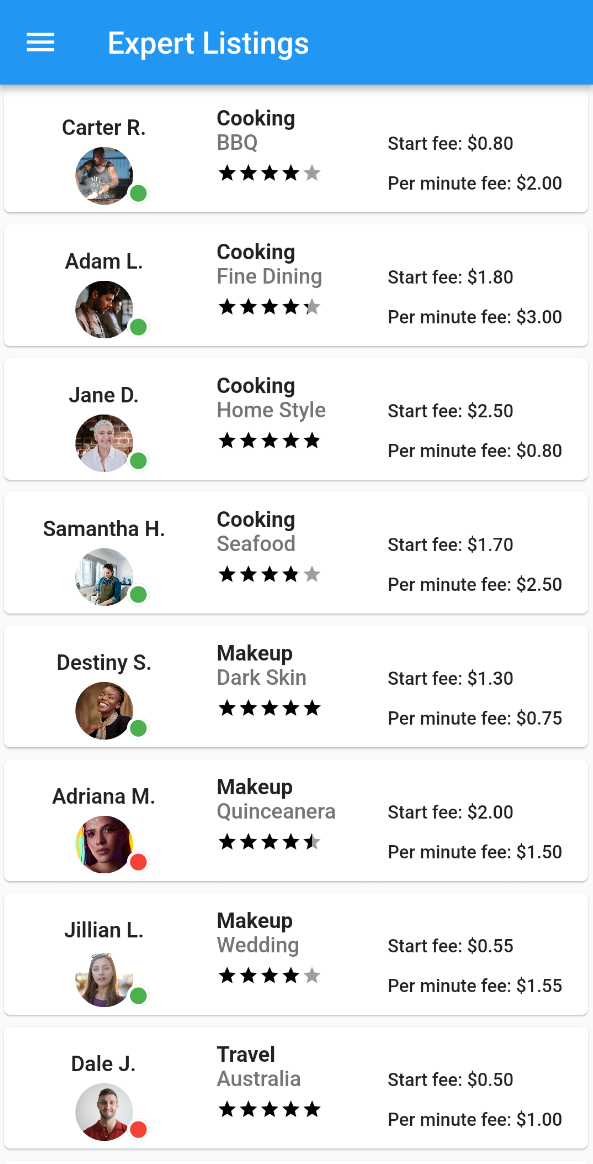
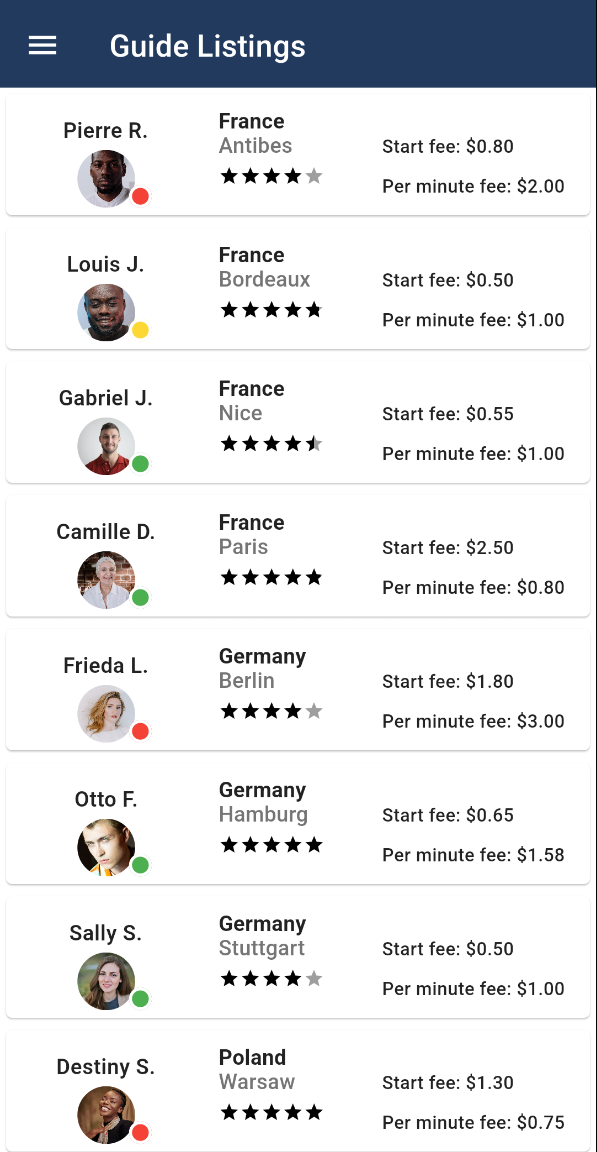
update splash image expert listings

diff --git a/lib/src/screens/user_view/onboarding_page_widgets.dart b/lib/src/screens/user_view/onboarding_page_widgets.dart
@@ -14,7 +14,7 @@ Widget buildOnboardingValuePropPage() {
         ),
         SizedBox(height: 20),
         _textHelper(
-            "Video call 1:1 with knowledgeable guides to get your questions answered"),
+            "Video call 1:1 with knowledgeable local guides to get the most out of your trip"),
       ],
     ),
   );
@@ -29,7 +29,7 @@ Widget buildOnboardingExpertChoicePage() {
         _buildAppTitle(),
         SizedBox(height: 50),
         _textHelper(
-            "Choose your guide by viewing their category of expertise, reviews, and cost"),
+            "Choose your guide by viewing their location expertise, reviews, and cost"),
         SizedBox(height: 20),
         SizedBox(
           height: 450,
@@ -92,7 +92,7 @@ Widget buildExpertSignupPage() {
         _buildAppTitle(),
         SizedBox(height: 50),
         _textHelper(
-            "If you have a skill we can verify, sign up in the app to become one of our guides and earn money quickly"),
+            "If you would like to become a guide, sign up in the app and earn money quickly"),
         SizedBox(height: 20),
         SizedBox(
           height: 450,
